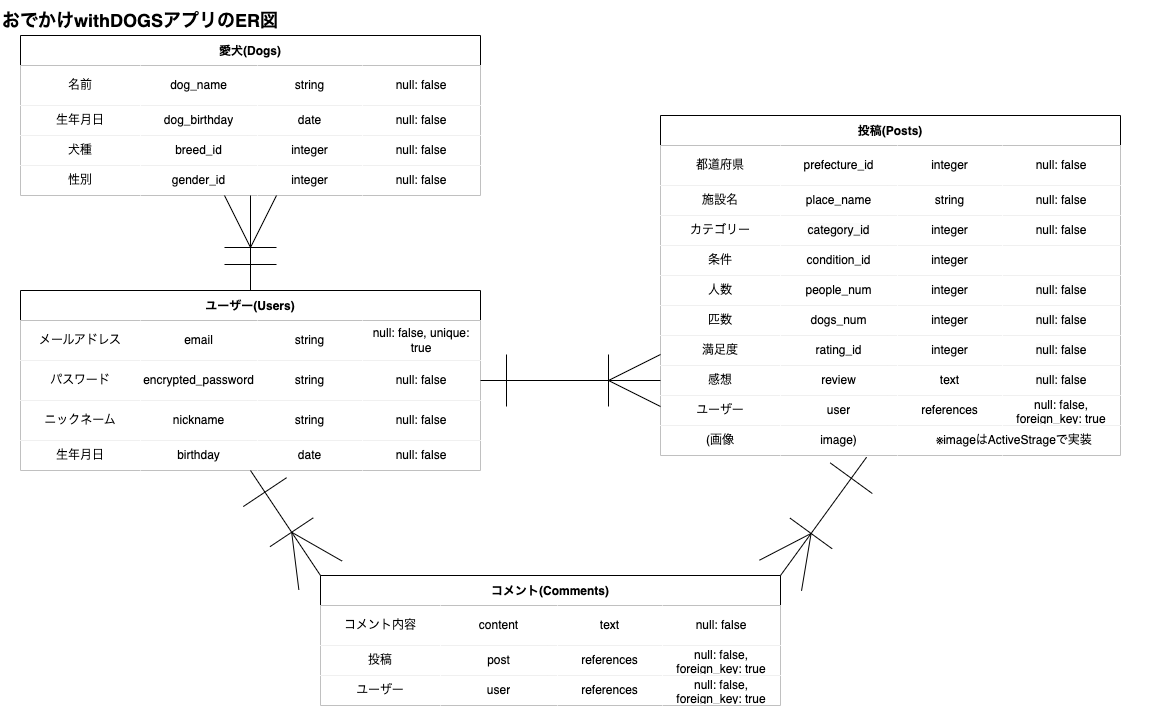
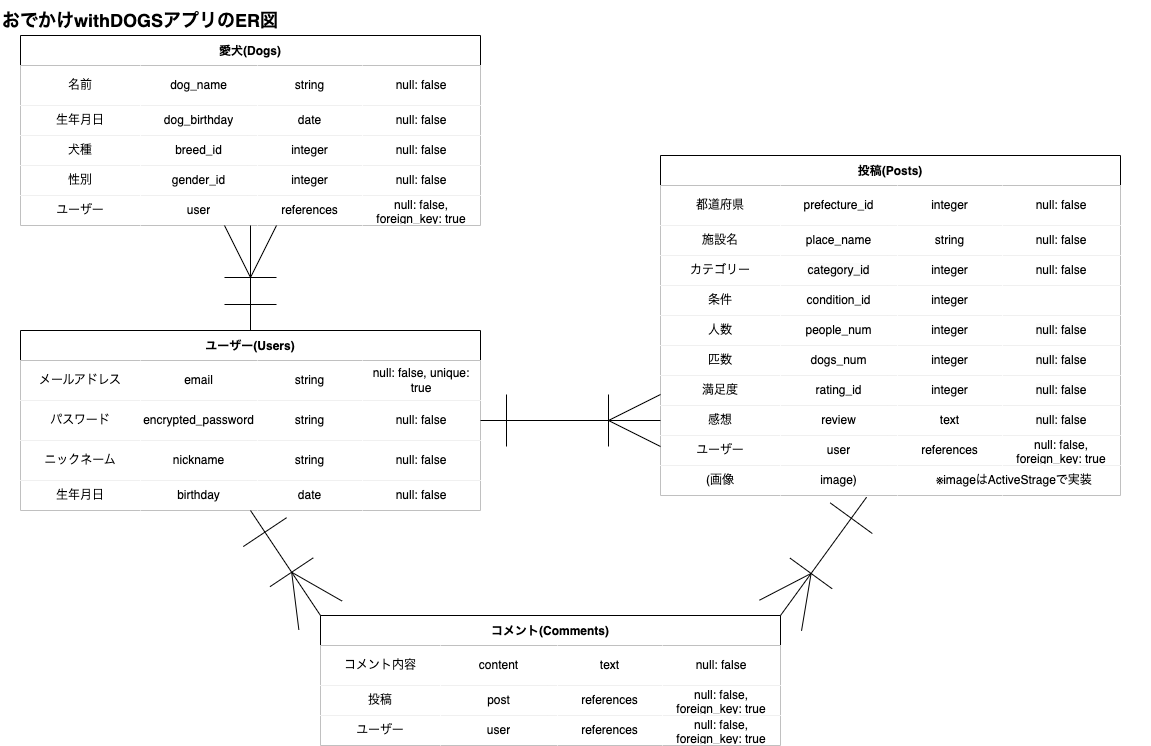
README

diff --git a/README.md b/README.md
@@ -1,24 +1,64 @@
 # README
 
-This README would normally document whatever steps are necessary to get the
-application up and running.
+# テーブル設計
 
-Things you may want to cover:
+## usersテーブル
 
-* Ruby version
+| Column             | Type   | Options                   |
+| ------------------ | ------ | ------------------------- |
+| email              | string | null: false, unique: true |
+| encrypted_password | string | null: false               |
+| nickname           | string | null: false               |
+| birthday           | date   | null: false               |
 
-* System dependencies
+### Association
 
-* Configuration
+- has_many :dogs
+- has_many :posts
+- has_many :comments
 
-* Database creation
+## dogsテーブル
 
-* Database initialization
+| Column       | Type       | Options                        |
+| ------------ | ---------- | ------------------------------ |
+| dogs_name    | string     | null: false                    |
+| dog_birthday | date       | null: false                    |
+| breed_id     | integer    | null: false                    |
+| gender_id    | integer    | null: false                    |
+| user         | references | null: false, foreign_key: true |
 
-* How to run the test suite
+### Association
 
-* Services (job queues, cache servers, search engines, etc.)
+- belongs_to :user
 
-* Deployment instructions
+## postsテーブル
 
-* ...
+| Column        | Type       | Options                        |
+| ------------- | ---------- | ------------------------------ |
+| prefecture_id | integer    | null: false                    |
+| place_name    | string     | null: false                    |
+| category_id   | integer    | null: false                    |
+| condition_id  | integer    |                                |
+| people_num    | integer    | null: false                    |
+| dogs_num      | integer    | null: false                    |
+| rating_id     | integer    | null: false                    |
+| review        | text       | null: false                    |
+| user          | references | null: false, foreign_key: true |
+
+### Association
+
+- belongs_to :user
+- has_many   :comments
+
+## commentsテーブル
+
+| Column    | Type       | Options                        |
+| --------- | ---------- | ------------------------------ |
+| content   | text       | null: false                    |
+| post      | references | null: false, foreign_key: true |
+| user      | references | null: false, foreign_key: true |
+
+### Association
+
+- belongs_to :user
+- belongs_to :post
